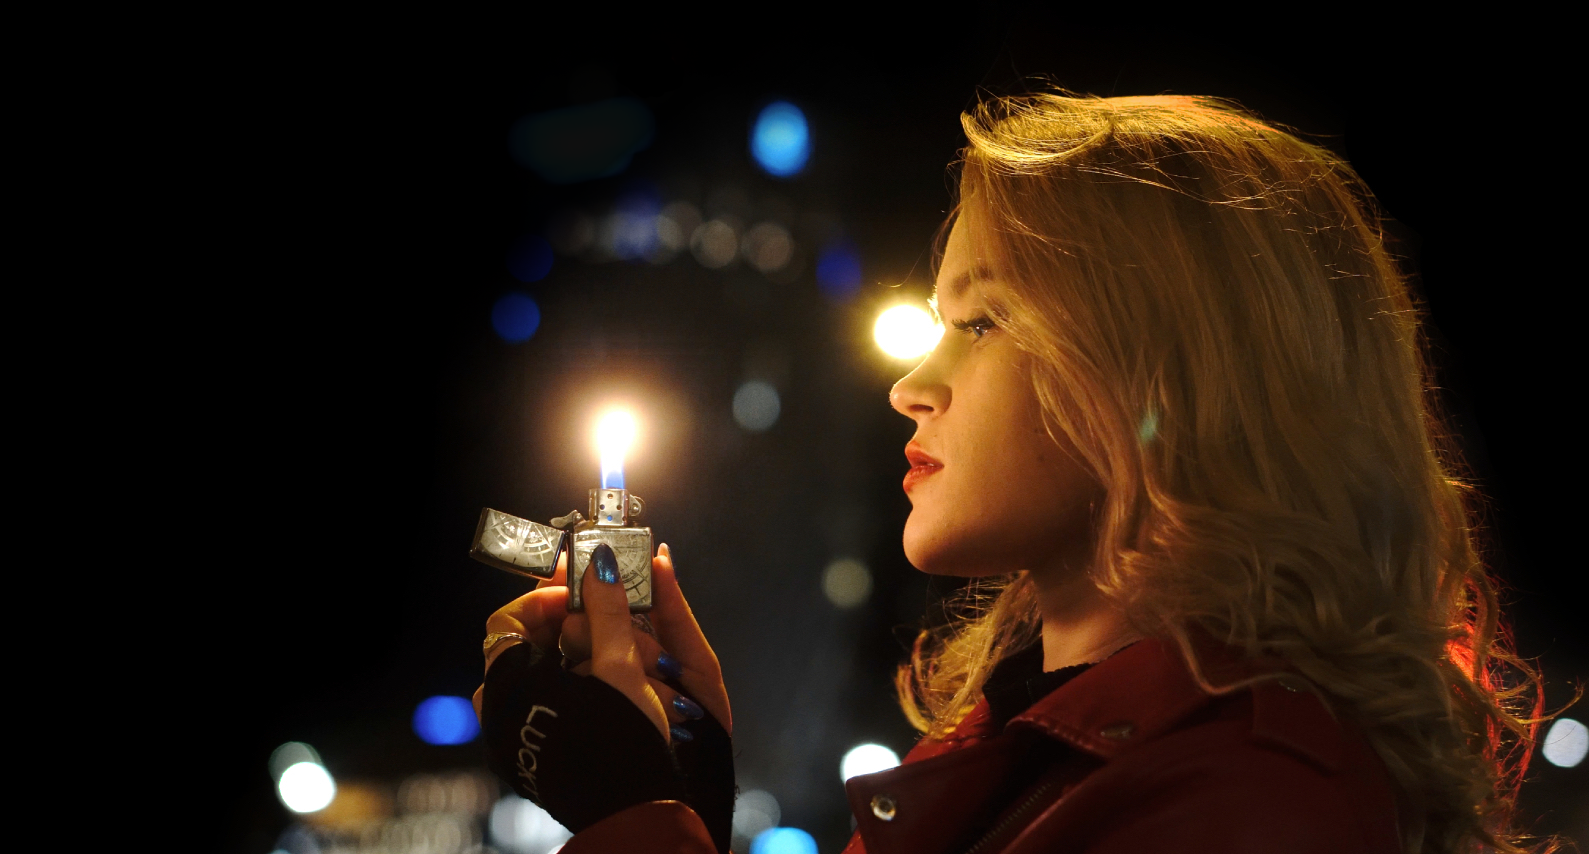
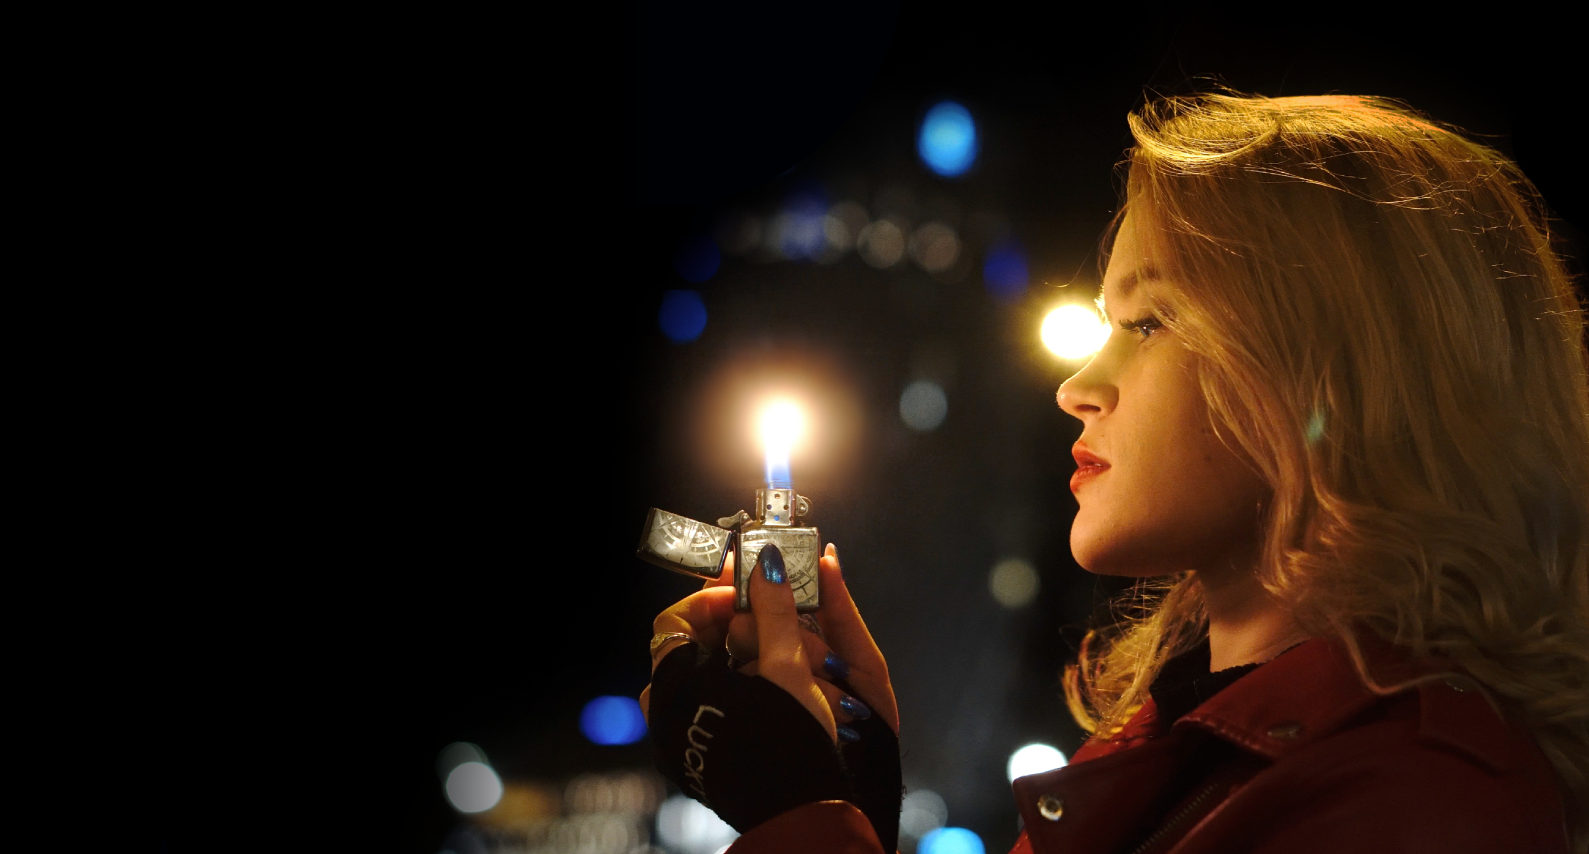
small fixes

diff --git a/index.html b/index.html
@@ -246,7 +246,7 @@
                         <h3>C programming</h3>
                         <p></p>
                         <a
-                            href="https://github.com/davylis/c-programs/blob/main/chapter8/ex3/reverse_matrix_with_three_arrays.c"><i
+                            href="https://github.com/davylis/c-programs/blob/main/chapter8/ex3/reverse_matrix_with_three_arrays.c" aria-label="C code"><i
                                 class="fa-solid fa-arrow-up-right-from-square fa-fade"></i></a>
                     </div>
                 </div>
@@ -256,7 +256,7 @@
                         <h3>JavaScript</h3>
                         <p></p>
                         <a
-                            href="https://github.com/davylis/ISD/blob/main/Viope_JS/Chapter2/2.6/04.06WebGLEarthAPIEx.js"><i
+                            href="https://github.com/davylis/ISD/blob/main/Viope_JS/Chapter2/2.6/04.06WebGLEarthAPIEx.js" aria-label="JS code"><i
                                 class="fa-solid fa-arrow-up-right-from-square fa-fade"></i></a>
                     </div>
                 </div>
@@ -265,12 +265,12 @@
                     <div class="layer">
                         <h3>CSS</h3>
                         <p></p>
-                        <a href="https://github.com/davylis/davylis.github.io/blob/main/styles/small_screen.css"><i
+                        <a href="https://github.com/davylis/davylis.github.io/blob/main/styles/small_screen.css" aria-label="CSS code"><i
                                 class="fa-solid fa-arrow-up-right-from-square fa-fade"></i></a>
                     </div>
                 </div>
             </div>
-            <a href="https://github.com/davylis?tab=repositories" class="btn">See more</a>
+            <a href="https://github.com/davylis?tab=repositories" aria-label="Repos" class="btn">See more</a>
         </div>
     </section>
     <!-- contact -->
@@ -282,8 +282,8 @@
                     <p><i class="fa-solid fa-envelope"></i>liisadavydov@gmail.com</p>
                     <p><i class="fa-solid fa-phone"></i>+358452101711</p>
                     <div class="social-icons">
-                        <a href="https://fi.linkedin.com/in/davylis"><i class="fa-brands fa-linkedin"></i></a>
-                        <a href="https://github.com/davylis"><i class="fa-brands fa-github"></i></a>
+                        <a href="https://fi.linkedin.com/in/davylis" aria-label="Linkedin profile"><i class="fa-brands fa-linkedin"></i></a>
+                        <a href="https://github.com/davylis" aria-label="Github profile"><i class="fa-brands fa-github"></i></a>
                     </div>
                     <a href="Images/CV.pdf" download class="btn btn2">Download CV</a>
                 </div>

diff --git a/styles/small_screen.css b/styles/small_screen.css
@@ -3,12 +3,20 @@ nav .fa-solid{
 }
 @media only screen and (max-width: 500px){
 #header{
-    background-image:url(../Images/H_page_mobile.png) ;
+    background-image:url(../Images/H_mobile.png) ;
 }
 }
+
 @media only screen and (max-width: 860px){
+#header{
+    background-image:url(../Images/H_mobile2.png) ;
+}
+}
+
+@media only screen and (max-width: 860px){
+    
     .hhhh{
-        margin-top: 25%;
+        margin-top: 12%;
         font-size: 18px;
     }
     .hhhh h1{
@@ -120,7 +128,7 @@ nav .fa-solid{
 
 @media only screen and (max-width: 1830px){
     .hhhh{
-        margin-top: 25%;
+        margin-top: 5%;
         font-size: 18px;
     }
     .hhhh h1{

diff --git a/styles/main.css b/styles/main.css
@@ -15,11 +15,14 @@ body{
 #header{
     width: 100%;
     height:100vh;
-    background-image: url(../Images/H_page.png);
+    background-image: url(../Images/H8_o.png);
     background-size: cover;
     background-position: center;
 }
-
+.H_page.png{
+filter: blur(8px);
+-webkit-filter: blur(8px);
+}
 .container{
     padding: 10px 10%;
 }

diff --git a/styles/about.css b/styles/about.css
@@ -54,7 +54,7 @@
     margin: 10px 0;
 }
 .tab-contents ul li span{
-    color: #67a9ffad;
+    color: #0008ff;
     font-size: 14px;
 }
 .tab-contents{

diff --git a/styles/services.css b/styles/services.css
@@ -7,7 +7,7 @@
 }
 .front, .back{
     text-align: center;
-    color: #5358f8;
+    color: antiquewhite;
 }
 .experience{
     display: grid;
